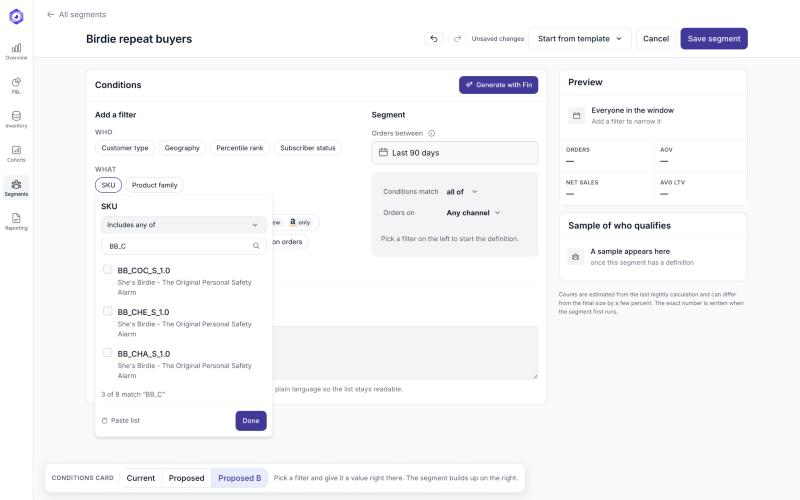
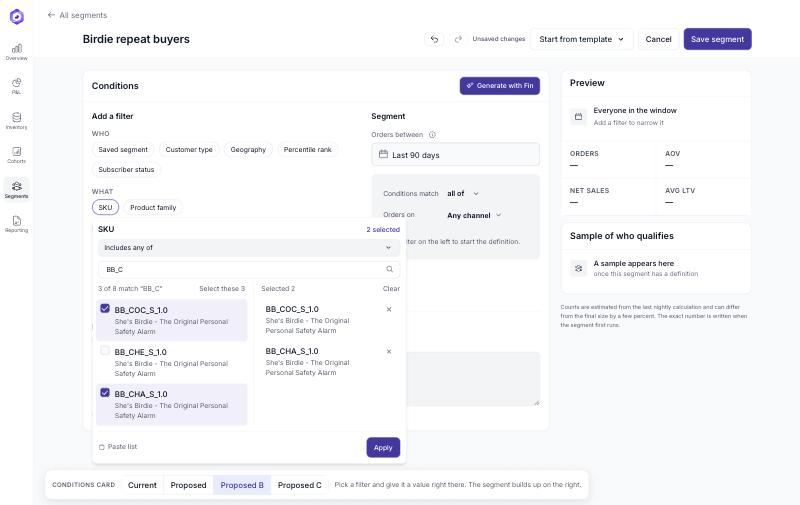
Undo cannot undo the card it is on, and the storyboard catches up
A snapshot taken in Proposed B holds things the flat card cannot: a Saved
segment condition, a SKU written as codes. Undone in Current, those rows came
back into controls that could not show them, the rail printed a dash beside a
row that visibly had a value, and the toast that said "switching back does
not bring it back" was made a liar. Restoring now passes the state through
the same rule the switch uses.

An Apply that ticks nothing on a filter that was not there closes the menu
instead of committing: it used to push a history entry, so Undo lit up for a
step that had changed nothing.

The storyboard's frames were shot before the picker had two panes and before
Apply existed, so three of them showed a build that no longer exists and the
captions described the old behaviour. Reshot at 1440, captions rewritten to
match what the frames now show.

diff --git a/storybook/public/pages/segment-builder.html b/storybook/public/pages/segment-builder.html
@@ -3490,8 +3490,32 @@ function flushPending() {
     if (v !== state.desc) commit(() => state.desc = v);
   }
 }
-function undo() { flushPending(); if (!history_.past.length) return; history_.future.push(snapshot()); restore(history_.past.pop()); syncInputs(); render(); }
-function redo() { flushPending(); if (!history_.future.length) return; history_.past.push(snapshot()); restore(history_.future.pop()); syncInputs(); render(); }
+/* ── History cannot undo the card it is on ────────────────────────────────
+   A snapshot taken in Proposed B holds things this card may not: a Saved
+   segment condition, a SKU written as codes. Undone in Current, the rows came
+   back into controls that cannot show them, the rail printed a dash beside a
+   row that visibly had a value, and the toast that said "switching back does
+   not bring it back" was made a liar. Restoring now passes the state through
+   the same rule the switch uses. */
+function fitToCard() {
+  const lists = groups.map(g => g.conds).concat([state.conds]);
+  lists.forEach(conds => {
+    for (let i = conds.length - 1; i >= 0; i--) {
+      const c = conds[i], d = ALL.find(a => a.k === c.k);
+      if (!d) { conds.splice(i, 1); continue; }
+      if (d.v3only && !V3) { conds.splice(i, 1); continue; }
+      if (d.ctl3 && hasValue(c)) {
+        const numeric = /^\d+$/.test(String(c.v));
+        /* A count belongs to the flat card's control, a list of codes to the
+           picker; whichever is on screen keeps only what it can read. */
+        if (V3 ? numeric : !numeric) c.v = '';
+      }
+    }
+  });
+  syncFlat();
+}
+function undo() { flushPending(); if (!history_.past.length) return; history_.future.push(snapshot()); restore(history_.past.pop()); fitToCard(); syncInputs(); render(); }
+function redo() { flushPending(); if (!history_.future.length) return; history_.past.push(snapshot()); restore(history_.future.pop()); fitToCard(); syncInputs(); render(); }
 function syncInputs() {
   document.getElementById('sbName').value = state.name;
   document.getElementById('sbDesc').value = state.desc;
@@ -5569,11 +5593,16 @@ document.addEventListener('click', e => {
     const sel = popSelOf(k), w = findCond(k);
     popSel = null;
     if (sel.length) popCommit(k, sel.join(', '));
-    else {
+    else if (w) {
       /* Applied with nothing ticked: the condition goes, rather than sitting
          in the segment filtering on an empty list. */
-      commit(() => { if (w) groups[w.gi].conds.splice(w.ci, 1); pop = null; popDraft = null; syncFlat(); });
+      commit(() => { groups[w.gi].conds.splice(w.ci, 1); pop = null; popDraft = null; syncFlat(); });
       document.querySelector(`[data-pop="${k}"]`)?.focus();
+    } else {
+      /* Nothing was there and nothing was ticked: closing is the whole of it.
+         It used to go through commit(), which lit up Undo for a step that had
+         changed nothing. */
+      popClose(true);
     }
     return;
   }

diff --git a/storybook/public/pages/segments-storyboard.html b/storybook/public/pages/segments-storyboard.html
@@ -70,14 +70,15 @@
         <div>
           <div class="sbd__t"><span class="sbd__n">02</span>
             <span class="card-header-title">A filter opens where it was pressed</span></div>
-          <div class="card-header-sub">Search runs over the code and the product name</div>
+          <div class="card-header-sub">The catalogue on the left, what you have chosen on the right</div>
         </div>
         <span class="badge badge-gray">SKU</span>
       </div>
       <img class="sbd__shot" src="../assets/storyboard/02-pick.jpg" alt="Pressing the SKU filter opens a menu at the pill with a filter type, a search field and the catalogue.">
     </div>
     <p class="sbd__note">The value is given at the filter, not in a panel further down the page.
-      Typing narrows the catalogue and the menu says how much is left: three of eight.</p>
+      Search runs over the code and the product name, the menu says how much is left, three of
+      eight, and the selection is assembled before it counts for anything.</p>
   </section>
 
   <section class="sbd__step">
@@ -85,16 +86,17 @@
       <div class="card-header">
         <div>
           <div class="sbd__t"><span class="sbd__n">03</span>
-            <span class="card-header-title">The count moves as the list is built</span></div>
-          <div class="card-header-sub">Each tick recalculates, and the menu stays open</div>
+            <span class="card-header-title">Apply, and the count moves</span></div>
+          <div class="card-header-sub">The segment is untouched until then</div>
         </div>
         <span class="badge badge-gray">Live estimate</span>
       </div>
       <img class="sbd__shot" src="../assets/storyboard/03-chosen.jpg" alt="Two SKUs ticked: the segment reads Bought any of 2 SKUs and the Preview shows 10,356 customers.">
     </div>
-    <p class="sbd__note">Two codes chosen, and the segment already reads as a sentence:
-      <b>Bought any of 2 SKUs</b>. The Preview answers at the same moment, 10,356 customers,
-      and shows what the condition dropped.</p>
+    <p class="sbd__note">Two codes applied, and the segment reads as a sentence:
+      <b>Bought any of 2 SKUs</b>. The Preview answers at that moment, 10,356 customers, and
+      shows what the condition dropped. Nothing moves while the picking is going on, so the
+      list never reorders under the hand that is reading it.</p>
   </section>
 
   <section class="sbd__step">
